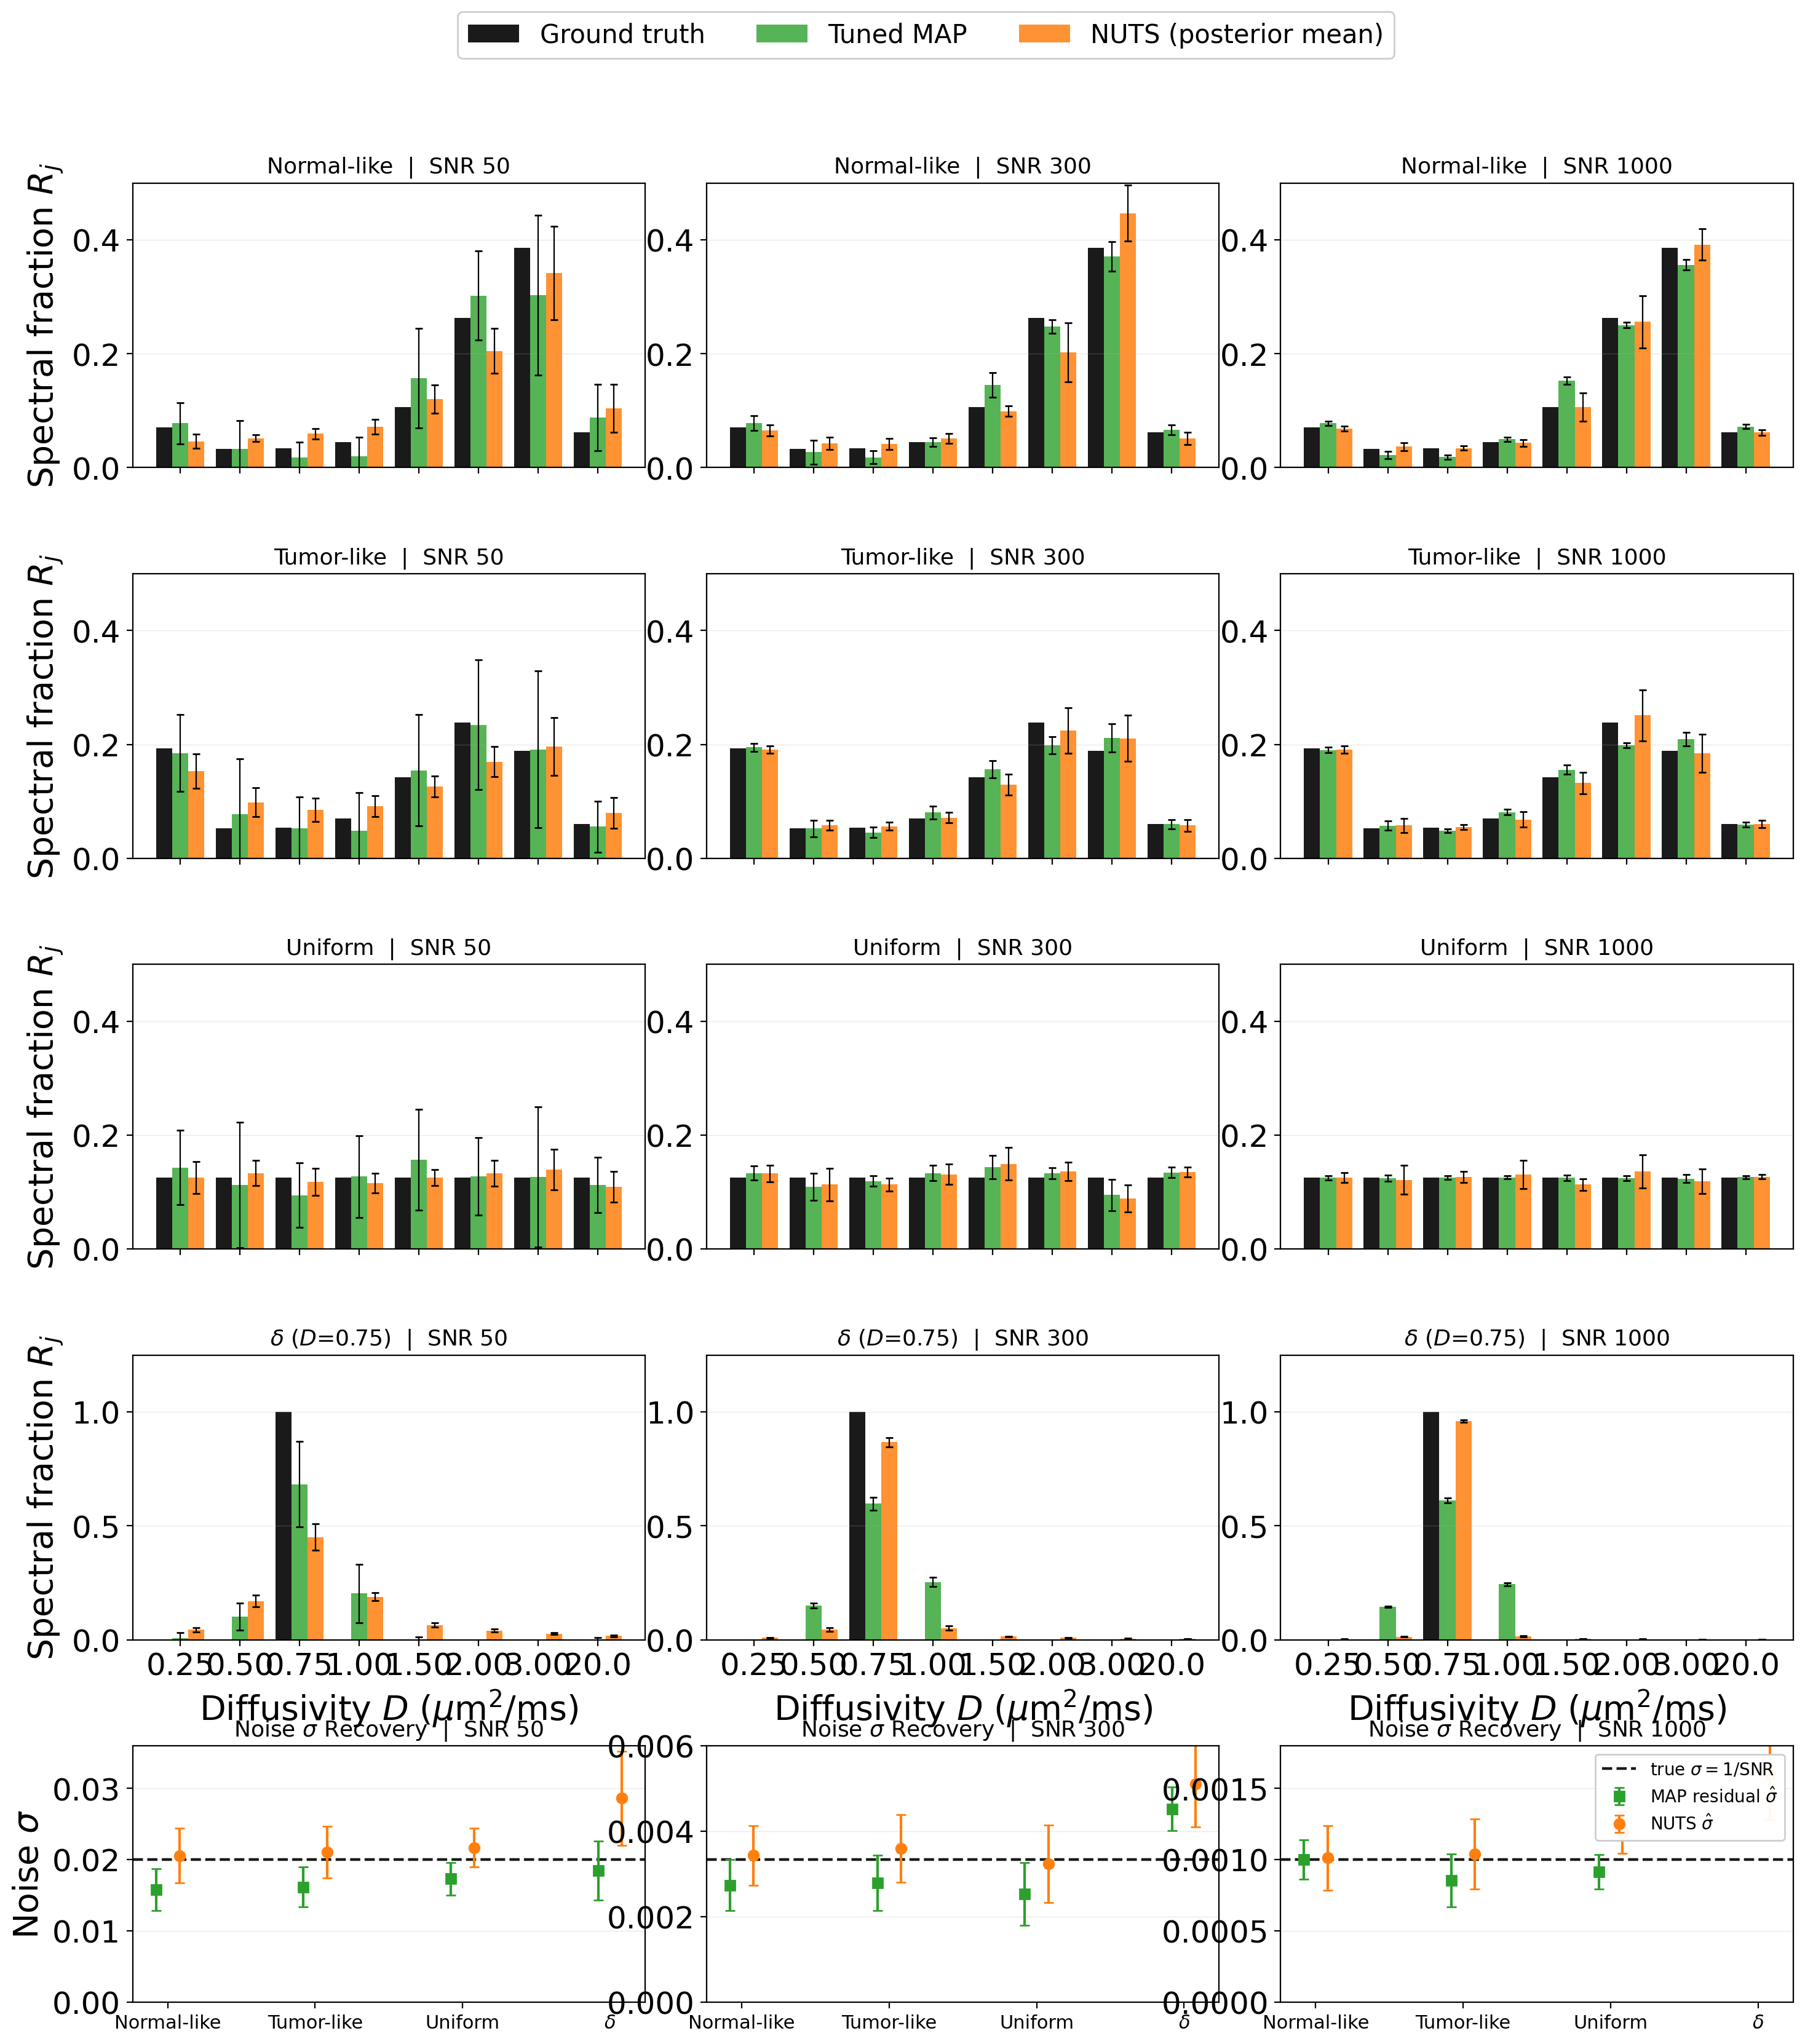
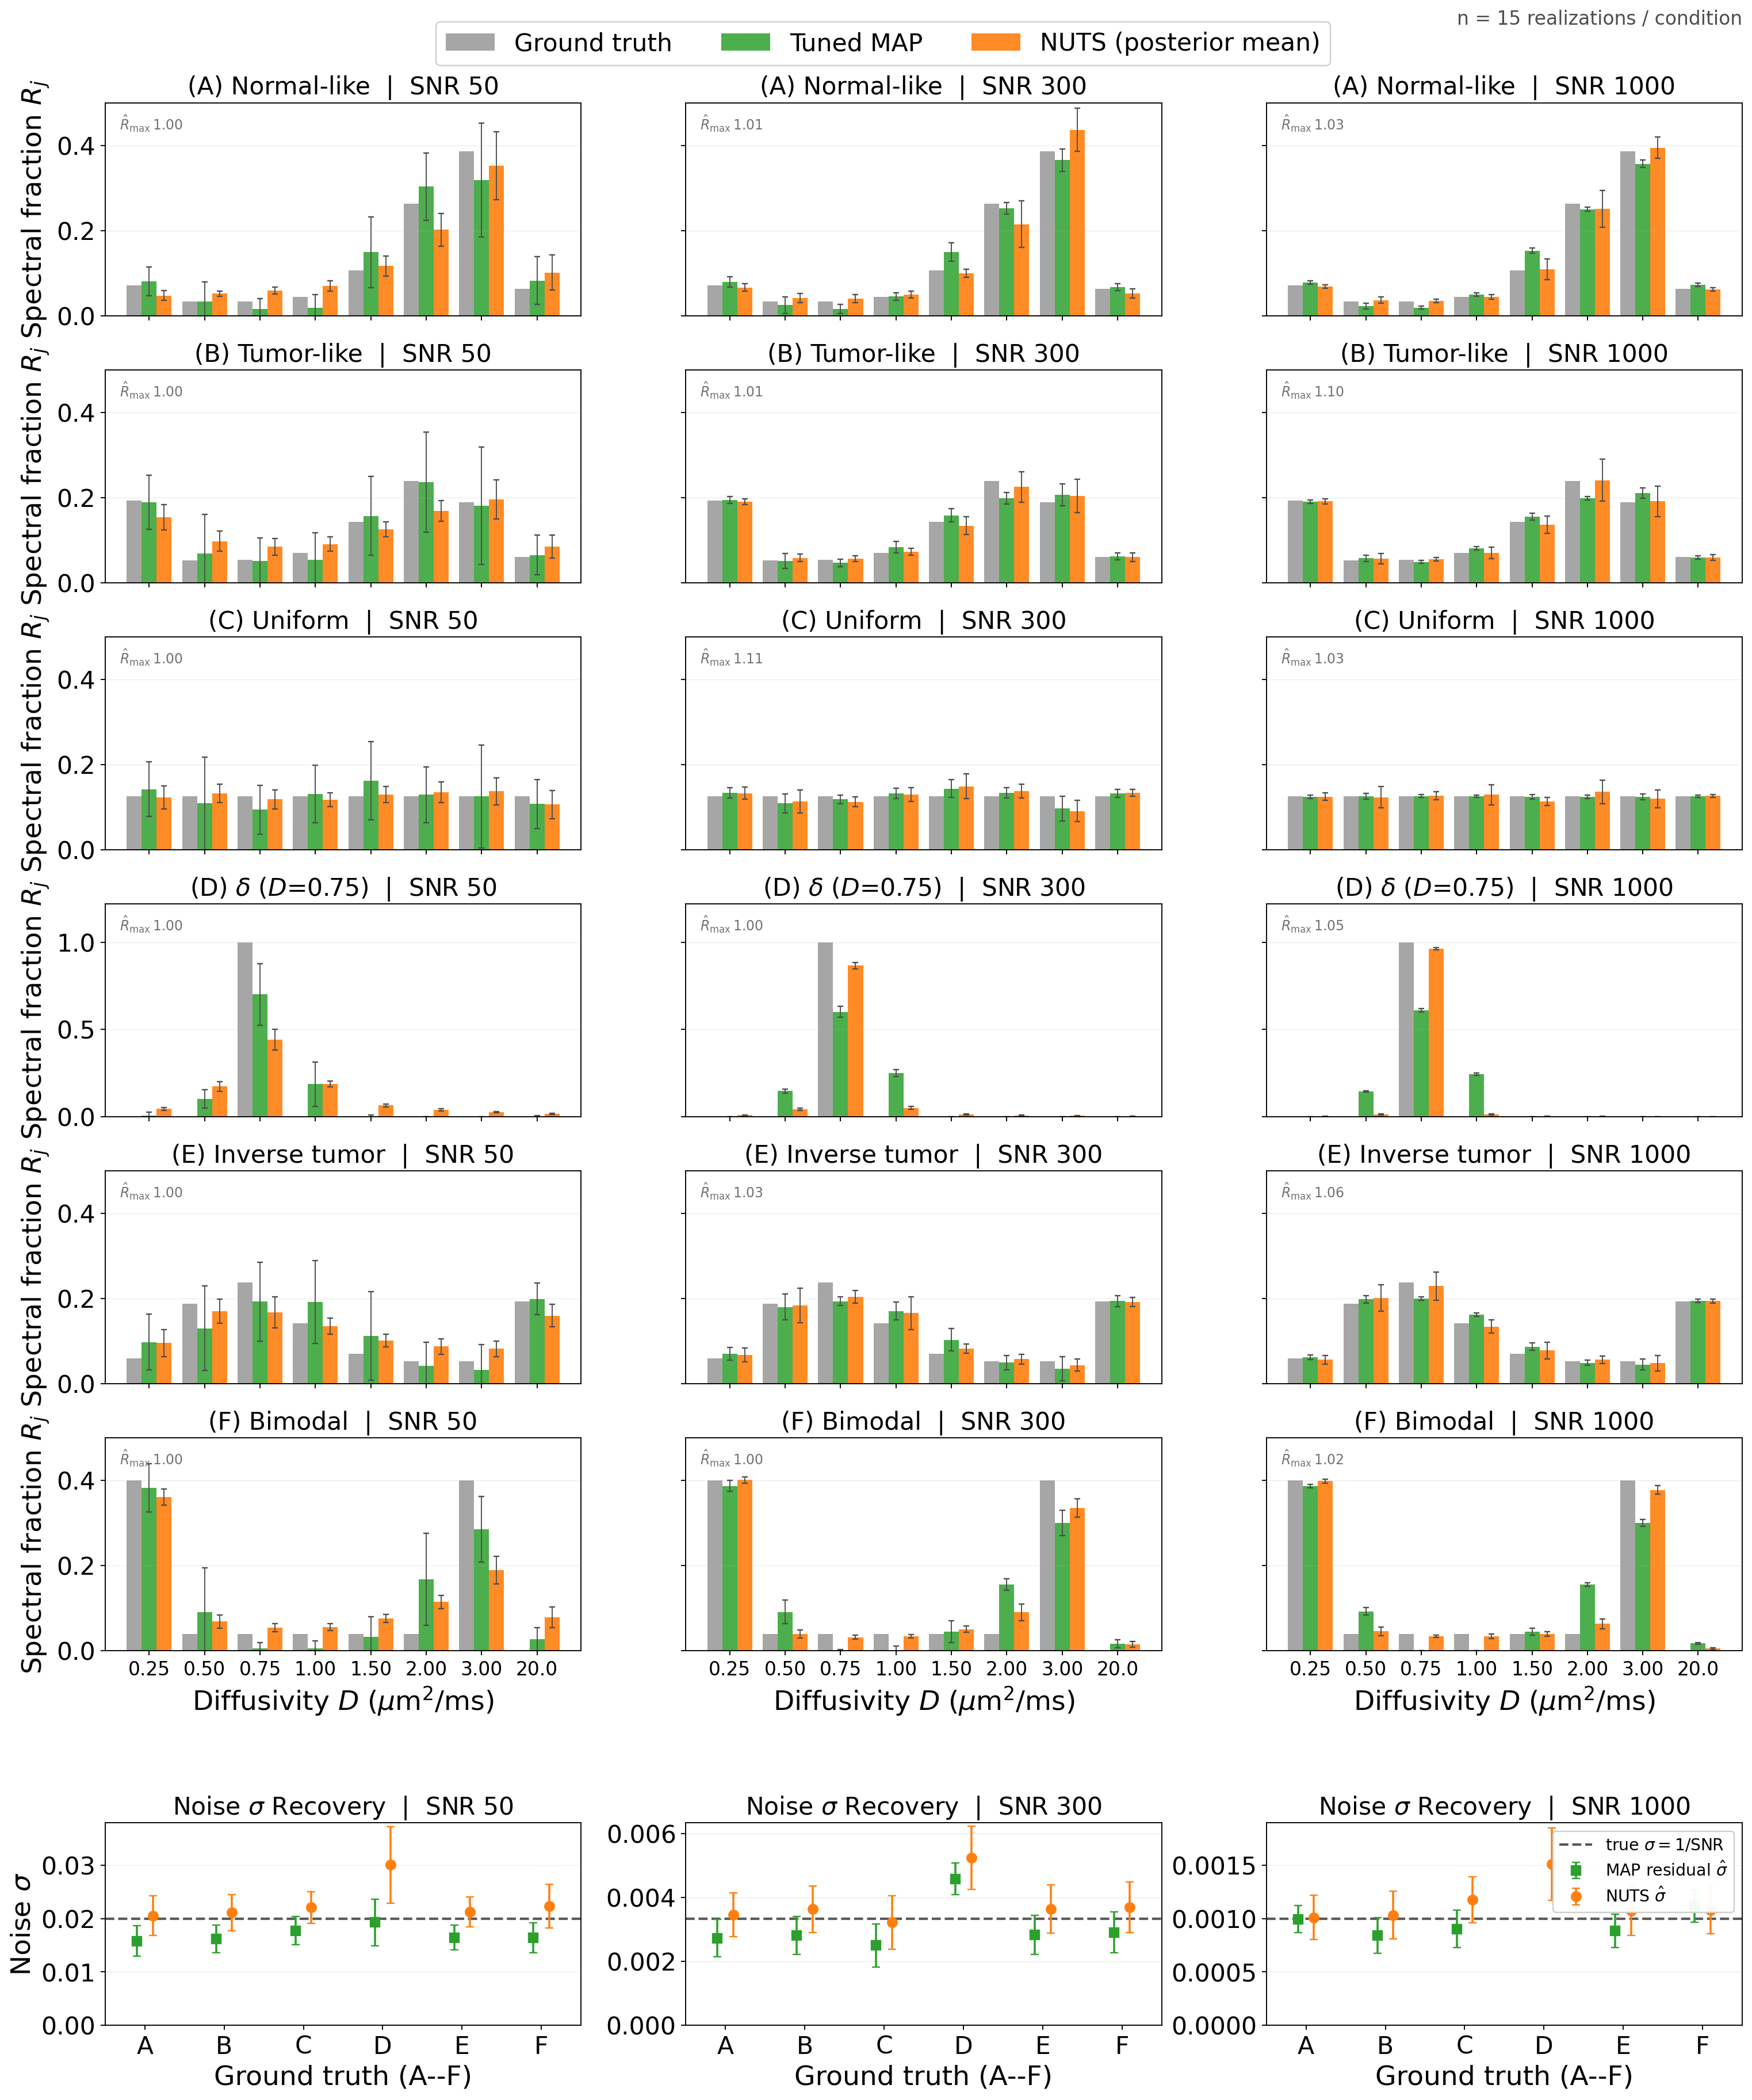
Fig 3 (recovery battery): restyle + promote full 6-GT battery to the main figure
Per Patrick 2026-06-11:
- the full 6-ground-truth battery IS now Fig 3 (full page); no separate 4-GT
  main + SI figure. SI recovery figure removed (fig:recovery_si dropped).
- ground-truth reference recoloured light grey (was near-black, too pronounced)
- subplot titles enlarged (match axis-label scale) with panel letters (A-F)
- per-panel max split-R-hat annotation (convergence evidence) + n-realizations
  note (same n for spectra and noise)
- rows A-F lettered; the noise row's x-axis uses those letters (large font) so
  it is not crowded by full GT names; noise row separated by a spacer and given
  larger titles / x-axis label
- tighter row spacing, wider columns + wider panels (diffusivity tick labels no
  longer overlap); inner-column y-numbers hidden (shared within-row scale)
- caption rewritten for six ground truths; n=100 marked TODO until the run lands

Figure PDF is the INTERIM render (~15 reps); final recommit when the 100-rep
run completes.

diff --git a/scripts/fig3_recovery_battery.py b/scripts/fig3_recovery_battery.py
@@ -57,7 +57,8 @@ GT_LABELS = {
     "delta": r"$\delta$ ($D$=0.75)", "inverse": "Inverse tumor",
     "bimodal": "Bimodal",
 }
-C_TRUTH, C_MAP, C_NUTS = COLORS["truth"], COLORS["map"], COLORS["nuts"]
+C_TRUTH, C_MAP, C_NUTS = "#a6a6a6", COLORS["map"], COLORS["nuts"]  # truth = light grey reference
+PANEL_LETTERS = ["A", "B", "C", "D", "E", "F", "G", "H"]
 
 U = np.exp(-np.outer(B_VALUES_MS, D))
 def norm(R):
@@ -174,64 +175,76 @@ def run(reps, draws, tune, chains):
 
 
 # ----------------------------------------------------------------- plotting
-def build_figure(store, gt_slugs, out_stem, title):
-    nrow = len(gt_slugs) + 1
-    fig, axes = plt.subplots(nrow, 3, figsize=(15, 3.4 * nrow),
-                             gridspec_kw={"height_ratios": [1] * len(gt_slugs) + [0.9]})
+def build_figure(store, gt_slugs, out_stem):
+    n_gt = len(gt_slugs)
+    n_reps = min(len(store[f"{s}__{snr}__nuts"]) for s in gt_slugs for snr in SNRS)
+    # n_gt recovery rows + a thin spacer + a noise-sigma row. The spacer gives the
+    # sigma row extra separation while the recovery rows stay tight.
+    fig = plt.figure(figsize=(18.5, 3.0 * n_gt + 3.6))
+    gs = fig.add_gridspec(n_gt + 2, 3, height_ratios=[1] * n_gt + [0.30, 0.95],
+                          hspace=0.28, wspace=0.22,
+                          left=0.07, right=0.975, top=0.955, bottom=0.045)
     x = np.arange(N_D); w = 0.27
     for ci, snr in enumerate(SNRS):
         for ri, slug in enumerate(gt_slugs):
-            ax = axes[ri, ci]
+            ax = fig.add_subplot(gs[ri, ci])
             Rt = store[f"{slug}__{snr}__Rtrue"]
             mp = store[f"{slug}__{snr}__map"]; nt = store[f"{slug}__{snr}__nuts"]
+            rh = store.get(f"{slug}__{snr}__rhat", np.array([np.nan]))
             ax.bar(x - w, Rt, w, color=C_TRUTH, label="Ground truth")
-            ax.bar(x, mp.mean(0), w, yerr=mp.std(0), color=C_MAP, alpha=0.8,
-                   ecolor="black", capsize=2, error_kw=dict(lw=0.8), label="Tuned MAP")
-            ax.bar(x + w, nt.mean(0), w, yerr=nt.std(0), color=C_NUTS, alpha=0.85,
-                   ecolor="black", capsize=2, error_kw=dict(lw=0.8),
+            ax.bar(x, mp.mean(0), w, yerr=mp.std(0), color=C_MAP, alpha=0.85,
+                   ecolor="0.3", capsize=2, error_kw=dict(lw=0.8), label="Tuned MAP")
+            ax.bar(x + w, nt.mean(0), w, yerr=nt.std(0), color=C_NUTS, alpha=0.9,
+                   ecolor="0.3", capsize=2, error_kw=dict(lw=0.8),
                    label="NUTS (posterior mean)")
             ax.set_xticks(x)
-            ax.set_xticklabels(DLABELS if ri == len(gt_slugs) - 1 else [])
-            ax.set_ylim(0, max(0.5, float(Rt.max()) * 1.25))
+            if ri == n_gt - 1:
+                ax.set_xticklabels(DLABELS, fontsize=14)   # 8 values: keep compact
+            else:
+                ax.set_xticklabels([])
+            ax.set_ylim(0, max(0.5, float(Rt.max()) * 1.22))
             if ci == 0:
                 ax.set_ylabel("Spectral fraction $R_j$")
-            if ri == len(gt_slugs) - 1:
+            else:
+                ax.tick_params(labelleft=False)          # within-row shared y-scale
+            if ri == n_gt - 1:
                 ax.set_xlabel(r"Diffusivity $D$ ($\mu$m$^2$/ms)")
-            n_reps = nt.shape[0]
-            ax.set_title(f"{GT_LABELS[slug]}  |  SNR {snr}", fontsize=13)
+            ax.set_title(f"({PANEL_LETTERS[ri]}) {GT_LABELS[slug]}  |  SNR {snr}",
+                         fontsize=18)
+            ax.text(0.03, 0.95, rf"$\hat{{R}}_{{\max}}\,{np.nanmax(rh):.2f}$",
+                    transform=ax.transAxes, fontsize=10, color="0.45",
+                    ha="left", va="top")
             ax.grid(axis="y", alpha=0.25, lw=0.5)
-        # sigma row
-        axs = axes[len(gt_slugs), ci]
-        xs = np.arange(len(gt_slugs))
+        # noise-sigma row (x-axis = ground-truth letters A-F)
+        axs = fig.add_subplot(gs[n_gt + 1, ci])
+        xs = np.arange(n_gt)
         st = 1.0 / snr
-        axs.axhline(st, color=C_TRUTH, ls="--", lw=1.6, label=r"true $\sigma=1/$SNR")
-        axs.errorbar(xs - 0.08,
-                     [store[f"{s}__{snr}__sig_map"].mean() for s in gt_slugs],
+        axs.axhline(st, color="0.35", ls="--", lw=1.8, label=r"true $\sigma=1/$SNR")
+        axs.errorbar(xs - 0.10, [store[f"{s}__{snr}__sig_map"].mean() for s in gt_slugs],
                      yerr=[store[f"{s}__{snr}__sig_map"].std() for s in gt_slugs],
-                     fmt="s", color=C_MAP, capsize=3, label=r"MAP residual $\hat\sigma$")
-        axs.errorbar(xs + 0.08,
-                     [store[f"{s}__{snr}__sig_nuts"].mean() for s in gt_slugs],
+                     fmt="s", color=C_MAP, capsize=3, ms=7, label=r"MAP residual $\hat\sigma$")
+        axs.errorbar(xs + 0.10, [store[f"{s}__{snr}__sig_nuts"].mean() for s in gt_slugs],
                      yerr=[store[f"{s}__{snr}__sig_nuts"].std() for s in gt_slugs],
-                     fmt="o", color=C_NUTS, capsize=3, label=r"NUTS $\hat\sigma$")
-        axs.set_xticks(xs)
-        axs.set_xticklabels([GT_LABELS[s].split(" ")[0] for s in gt_slugs], fontsize=11)
-        axs.set_ylim(0, st * 1.8)
+                     fmt="o", color=C_NUTS, capsize=3, ms=7, label=r"NUTS $\hat\sigma$")
+        axs.set_xticks(xs); axs.set_xticklabels(PANEL_LETTERS[:n_gt], fontsize=18)
+        axs.set_xlim(-0.5, n_gt - 0.5); axs.set_ylim(0, st * 1.9)
+        axs.set_xlabel("Ground truth (A--F)", fontsize=20)
         if ci == 0:
             axs.set_ylabel(r"Noise $\sigma$")
-        axs.set_title(rf"Noise $\sigma$ Recovery  |  SNR {snr}", fontsize=13)
+        axs.set_title(rf"Noise $\sigma$ Recovery  |  SNR {snr}", fontsize=18)
         axs.grid(axis="y", alpha=0.25, lw=0.5)
+        if ci == 2:
+            axs.legend(loc="upper right", fontsize=12, framealpha=0.95)
 
-    h, l = axes[0, 0].get_legend_handles_labels()
-    fig.legend(h, l, loc="upper center", ncol=3, bbox_to_anchor=(0.5, 0.998),
-               frameon=True, framealpha=0.95, fontsize=15)
-    hs, ls_ = axes[len(gt_slugs), 0].get_legend_handles_labels()
-    axes[len(gt_slugs), 2].legend(hs, ls_, loc="upper right", fontsize=10, framealpha=0.95)
-    fig.subplots_adjust(top=1 - 0.45 / nrow, bottom=0.04, left=0.07, right=0.97,
-                        hspace=0.38, wspace=0.12)
-    fig.savefig(f"paper/figures/{out_stem}.png", dpi=200, bbox_inches="tight")
+    fig.legend(*fig.axes[0].get_legend_handles_labels(), loc="upper center",
+               ncol=3, bbox_to_anchor=(0.5, 0.999), frameon=True,
+               framealpha=0.95, fontsize=18)
+    fig.text(0.975, 0.999, f"n = {n_reps} realizations / condition",
+             ha="right", va="top", fontsize=14, color="0.3")
+    fig.savefig(f"paper/figures/{out_stem}.png", dpi=170, bbox_inches="tight")
     fig.savefig(f"paper/figures/{out_stem}.pdf", bbox_inches="tight")
     plt.close(fig)
-    print(f"saved paper/figures/{out_stem}.png/.pdf")
+    print(f"saved paper/figures/{out_stem}.png/.pdf  (n_reps={n_reps})")
 
 
 def make_figures(quick=False):
@@ -244,8 +257,9 @@ def make_figures(quick=False):
                 if f"{s}__{snr}__rhat" in store), default=float("nan"))
     print(f"rep counts: min={min(reps)} max={max(reps)} | global max R-hat={rmax:.3f}")
     suffix = "_quick" if quick else ""
-    build_figure(store, GT_MAIN, f"fig3_v7{suffix}", "main")
-    build_figure(store, GT_ALL, f"figS_recovery{suffix}", "SI")
+    # Single main figure = the full 6-ground-truth battery (Patrick 2026-06-11:
+    # no separate 4-GT main + SI; the battery IS Fig 3, full page).
+    build_figure(store, GT_ALL, f"fig3_v7{suffix}")
 
 
 if __name__ == "__main__":

diff --git a/paper/sections/figures.tex b/paper/sections/figures.tex
@@ -82,25 +82,26 @@ Figure~\ref{fig:sensitivity} and the supplementary atlas.
 \caption{%
 Validation of the spectral inference on simulated ground truth across spectrum
 shape and noise level.
-Four ground-truth spectra---normal-like and tumor-like (the cohort-mean NUTS
-spectra), a uniform spectrum, and a concentrated $\delta$ at $D = 0.75\;\umsmm$%
----are each recovered at SNR $= 50$, $300$, and $1000$ (columns); SNR $300$ is
-the cohort median (the operating point of the real data) and $50$ reflects the
+Six ground-truth spectra (rows A--F: normal-like and tumor-like---the
+cohort-mean NUTS spectra---a uniform spectrum, a concentrated $\delta$ at
+$D = 0.75\;\umsmm$, an inverse-tumor (reversed tumor), and a bimodal spectrum)
+are each recovered at SNR $= 50$, $300$, and $1000$ (columns); SNR $300$ is the
+cohort median (the operating point of the real data) and $50$ reflects the
 reduced per-voxel SNR of the pixel-wise analysis.
-In every panel the bars are the ground truth (black), the tuned-MAP estimate
+In every panel the bars are the ground truth (grey), the tuned-MAP estimate
 ($\lambda = 10^{-3}$, green), and the NUTS posterior mean (orange); error bars
-are $\pm 1$ standard deviation across independent noise realizations, each fit
-with the deployed NUTS configuration.
+are $\pm 1$ standard deviation across $n = 100$ independent noise realizations,% TODO: set n to final rep count
+each fit with the deployed NUTS configuration (the per-panel
+$\hat{R}_{\max}$ is the worst split-$\hat{R}$ over those realizations).
 MAP and NUTS recover the smooth spectra equivalently and tighten with SNR,
 whereas the $\delta$ spike is only partially recovered and smeared into its
 correlated neighboring bins---the identifiability limit of this b-value grid,
 not a sampler artifact; on that concentrated spectrum NUTS recovers more of the
 peak than MAP.
-The bottom row shows noise recovery: the true $\sigma = 1/\mathrm{SNR}$ (dashed)
-against the MAP residual estimate and the NUTS-inferred $\hat{\sigma}$, both
-close to truth---the noise level is recoverable with or without a sampler.
-The full six-ground-truth battery (adding inverse-tumor and bimodal spectra) is
-shown in Figure~\ref{fig:recovery_si}.
+The bottom row reports noise recovery for each ground truth (A--F): the true
+$\sigma = 1/\mathrm{SNR}$ (dashed) against the MAP residual estimate and the
+NUTS-inferred $\hat{\sigma}$, both close to truth---the noise level is
+recoverable with or without a sampler.
 }
 \label{fig:validation}
 \end{figure}

diff --git a/paper/sections/supporting.tex b/paper/sections/supporting.tex
@@ -81,24 +81,9 @@ equivalent on realistic spectra (Figure~\ref{fig:validation}).
 % Fig S (NUTS multi-chain trace plots, fig_trace_simulation.pdf): dropped --
 % unreadable and uninformative to readers; convergence is reported in Methods
 % (split-Rhat < 1.05 for all 149 ROIs).
-% --- Fig S: full simulation recovery battery (6 ground truths x 3 SNR) ---
-\begin{figure}[p]
-\centering
-\includegraphics[width=\textwidth,height=0.95\textheight,keepaspectratio]{figures/figS_recovery.pdf}
-\caption{%
-Full simulation recovery battery: the main-text validation
-(Figure~\ref{fig:validation}) extended to six ground-truth spectra---adding an
-inverse-tumor (reversed tumor) and a bimodal spectrum (mass at $D = 0.25$ and
-$3.0\;\umsmm$)---each recovered at SNR $= 50$, $300$, and $1000$.
-Bars are the ground truth (black), the tuned-MAP estimate ($\lambda = 10^{-3}$,
-green), and the NUTS posterior mean (orange); error bars are $\pm 1$ standard
-deviation across independent noise realizations.
-The bottom row shows noise recovery: the true $\sigma = 1/\mathrm{SNR}$ (dashed)
-against the MAP residual estimate and the NUTS-inferred $\hat{\sigma}$.
-All fits used the deployed NUTS configuration.
-}
-\label{fig:recovery_si}
-\end{figure}
+% Full simulation recovery battery (6 ground truths x 3 SNR) is now the MAIN
+% Figure~\ref{fig:validation} (full page), not a separate SI figure
+% (Patrick 2026-06-11). No SI recovery figure.
 
 % --- Supplementary atlas: individual estimated spectra for every ROI (LAST) ---
 % Multi-page atlas embedded with \includepdf -- MUST stay last in the document